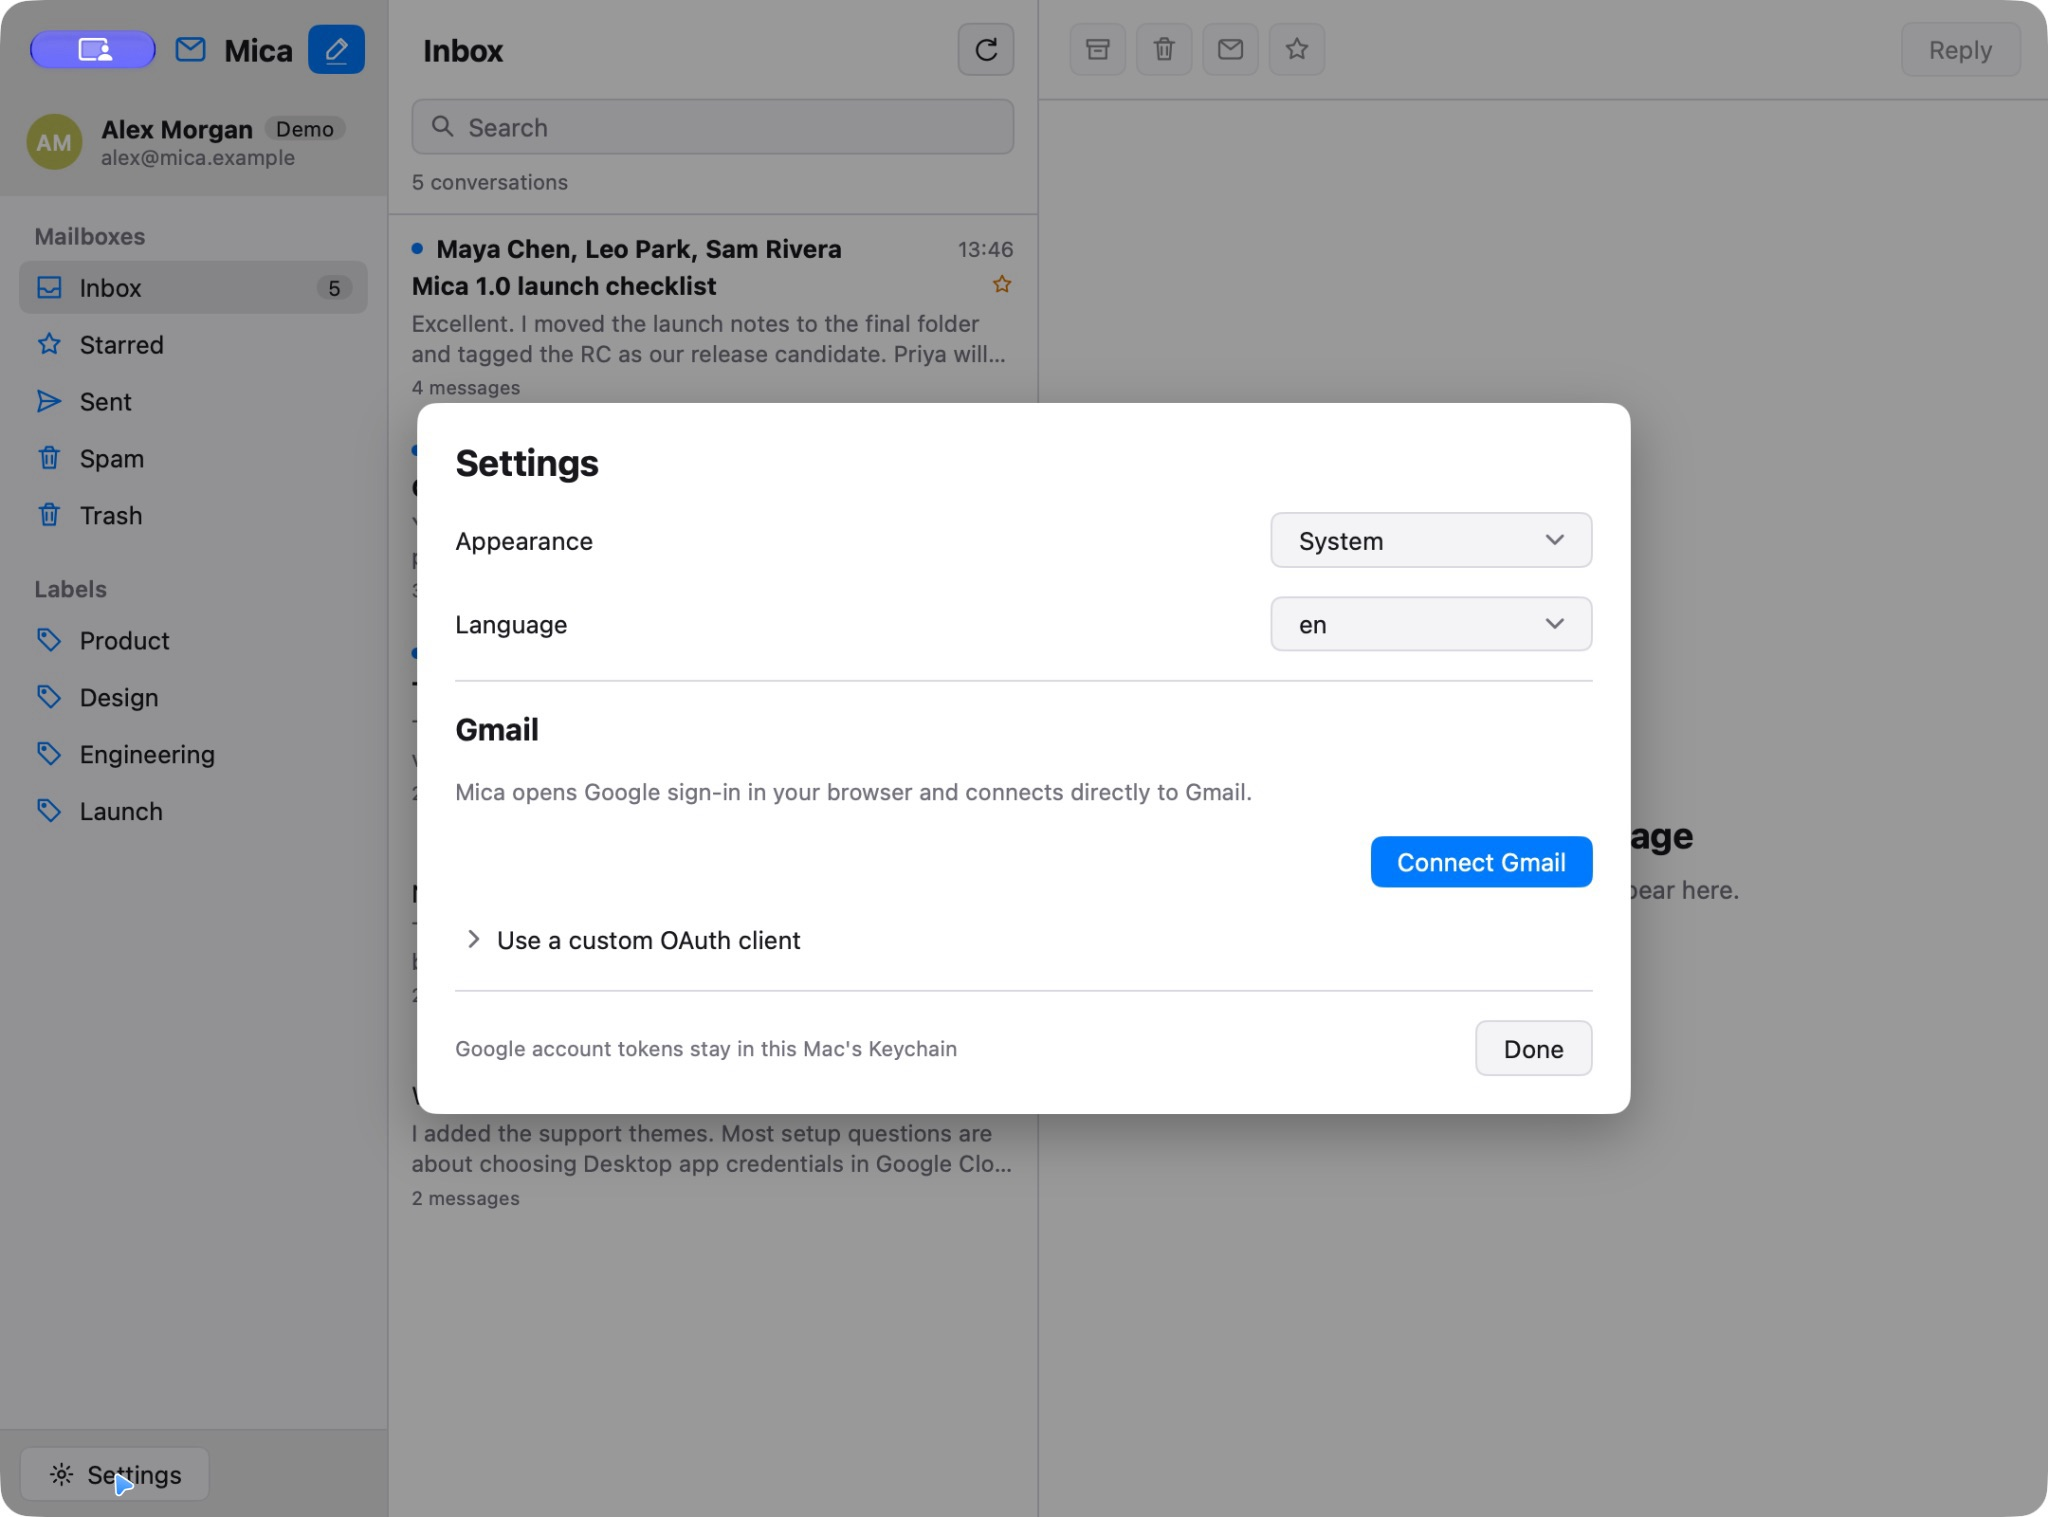
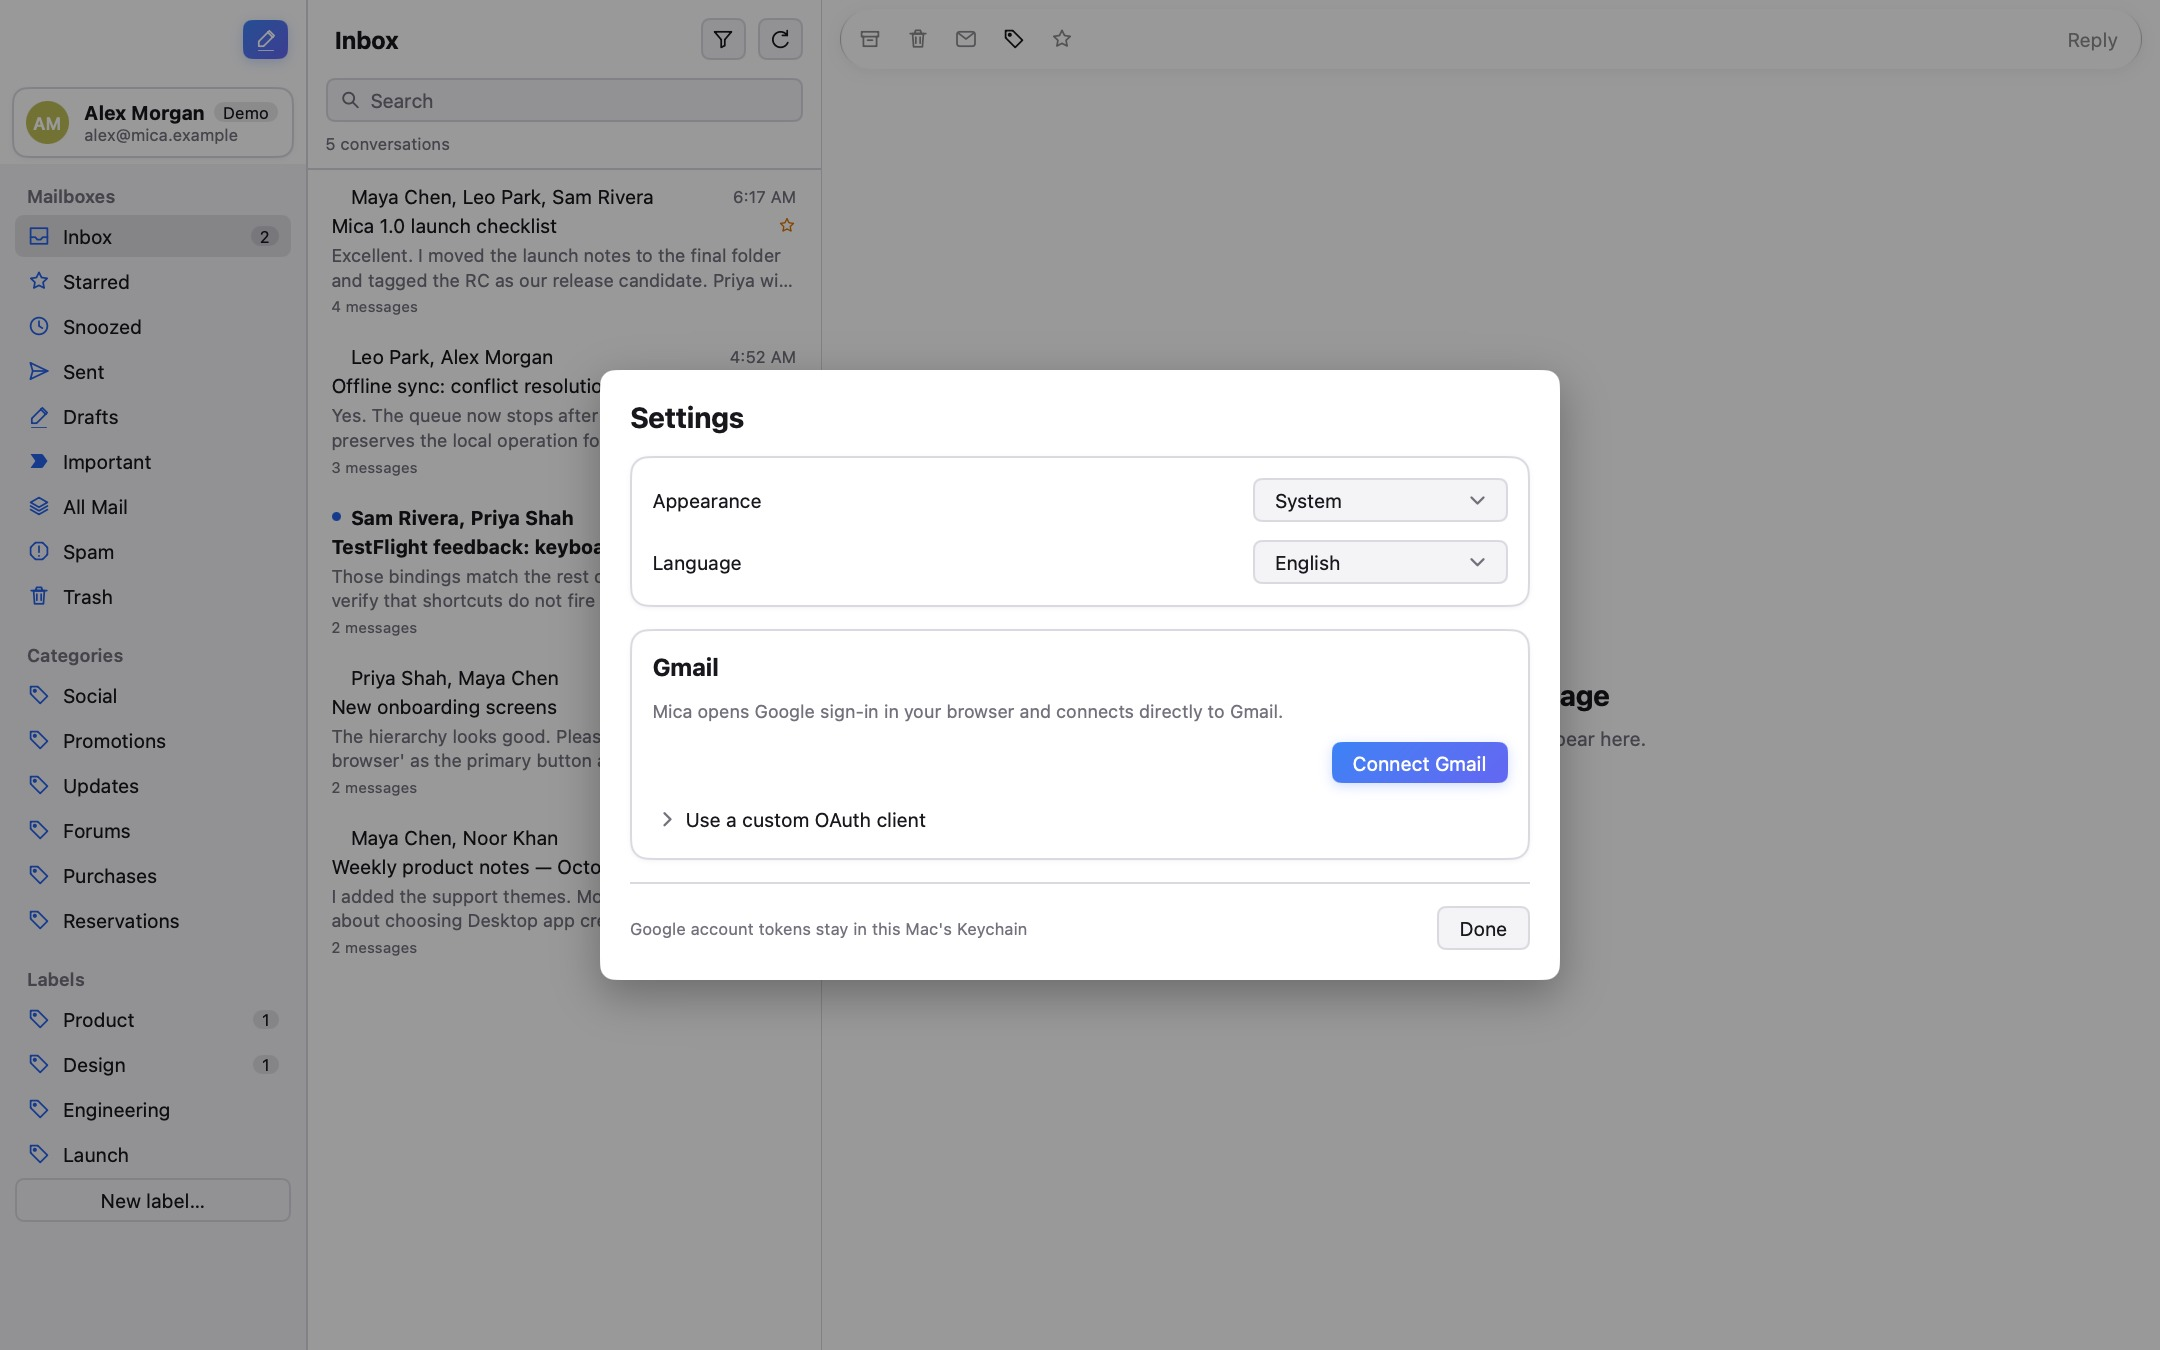
docs: refresh application screenshots
Refresh the documentation captures with the current English interface, including light and dark reading views, the empty mailbox, Settings, Retina details, and motion evidence.

Make motion captures explicitly English, drive toast expiration through a controllable callback, and assert that the final frame is clear. Record the Tester rebuild, scaled cropping, and timer lessons.

diff --git a/internal/app/motion_test.go b/internal/app/motion_test.go
@@ -56,7 +56,10 @@ func TestCaptureMotion(t *testing.T) {
 		t.Skip("capture is opt-in")
 	}
 	a := newTestApp(newFakeService())
+	var expireToast func()
+	a.after = func(_ time.Duration, fn func()) { expireToast = fn }
 	tt := ui.NewTester(a.View, 1280, 800)
+	tt.SetLocale("en")
 	if err := tt.Click("Launch plan"); err != nil {
 		t.Fatal(err)
 	}
@@ -89,7 +92,15 @@ func TestCaptureMotion(t *testing.T) {
 	tt.Advance(100 * time.Millisecond)
 	captureFrame(t, tt, "toast-mid")
 	tt.Advance(5 * time.Second)
+	if expireToast == nil {
+		t.Fatal("toast did not schedule its expiration")
+	}
+	expireToast()
+	tt.Frame()
 	captureFrame(t, tt, "toast-end")
+	if tt.HasText("Conversation archived") {
+		t.Fatal("toast remained visible after its deadline")
+	}
 }
 
 func captureFrame(t *testing.T, tt *ui.Tester, name string) {

diff --git a/docs/design.md b/docs/design.md
@@ -87,8 +87,8 @@ Real Gmail acceptance requires a Google test account.
 - The packaged settings UI shows the built-in Gmail connection first and keeps custom OAuth fields collapsed until requested.
 - MyGo's current macOS key mapping does not recognize the shifted punctuation used by `?`, `#`, and `!` as their Gmail key equivalents. No native-menu workaround is included.
 - Marketing copy and nonfunctional placeholder buttons were removed. Only actions with real behavior remain.
-- Final screenshots are in `docs/screenshots/`: `reading-light.jpg`, `reading-dark.jpg`, `settings.jpg`, `list-retina.png`, and `message-retina.png`.
-- Motion evidence is in `reader-*.png`, `compose-*.png`, `toast-*.png`, and `motion-sheet.png`, generated by `MICA_CAPTURE=1 go test ./internal/app -run TestCaptureMotion -count=1`.
+- Final screenshots are in `docs/screenshots/`: `reading-light.jpg`, `reading-dark.jpg`, `mailbox.jpg`, `settings.jpg`, `list-retina.png`, and `message-retina.png`.
+- English motion evidence is in `reader-*.png`, `compose-*.png`, `toast-*.png`, and `button-pressed.png`, generated by `MICA_CAPTURE=1 go test ./internal/app -run TestCaptureMotion -count=1`. `motion-sheet.png` composites the reader, composer, and toast sequences.
 - The native updater window was exercised. Its feed returns 404 until a release is published; a real update installation has not been tested.
 - Google OAuth incremental authorization and real Keychain writes succeeded. A later launch restored the account name and photo without another authorization prompt.
 - The packaged build displayed Important markers and the real Inoreader newsletter with its centered layout, text styles, inline icons, and 40/60 article columns. Toast notifications expired in the real window. The application menu opened Settings with Cmd+, including while the main window was hidden; no sidebar Settings entry remained. The sidebar title bar contains only Compose, and Gmail-style filled importance markers were checked in normal, selected, and reader states.

diff --git a/docs/LESSONS.md b/docs/LESSONS.md
@@ -48,6 +48,9 @@
 - A toggle needs a clearly different active color, not only a changed tooltip or filtered result. Verify color transitions at start, middle, and end, and move the pointer away before checking the inactive style because hover can mask the default background.
 - Glass materials can be nearly invisible on a light reader while looking strong in dark mode. Check both appearances with real content behind the material, including while content scrolls under it, and tune the tint and shadow so the backdrop cannot reduce control contrast.
 - UI capture helpers must not call production credential-loading paths. Build modal state directly, or a screenshot run can block on the real macOS Keychain instead of rendering.
+- Call `Tester.Frame()` after changing app state directly; `Advance` only runs frames already scheduled. A Settings capture that omitted the rebuild rendered the previous mailbox instead.
+- `Tester.Find` returns logical coordinates, while `Tester.Image` contains physically scaled pixels. Scale crop bounds accordingly and inspect the result; an unscaled 2x crop showed an unrelated conversation row and pane.
+- Drive capture timers with a controllable callback and verify the final content. `Tester.Advance` does not run `time.AfterFunc`, so a toast capture still showed the notice in its end frame until the test invoked expiration explicitly.
 - A gradient fill does not interpolate like a solid color transition. Keep animated toggles on a solid accent and verify start, middle, and end pixels before replacing them with a gradient.
 
 ## Animate image data without blocking the UI
